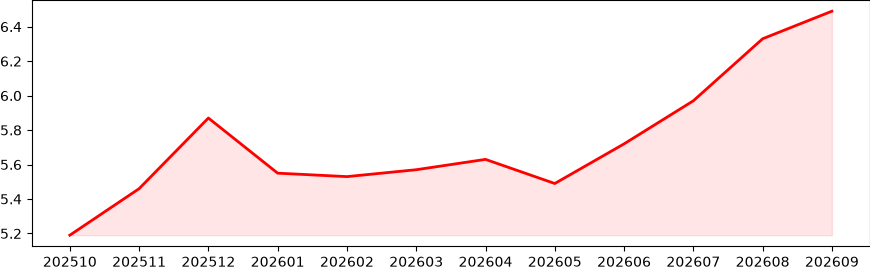
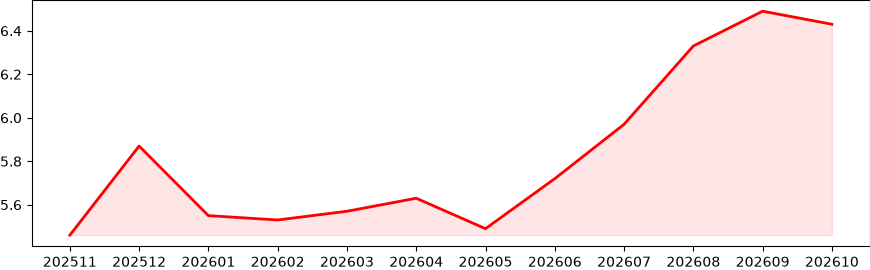
📈 README 및 금리 데이터 자동 업데이트 (2026-11-25)

diff --git a/README.md b/README.md
@@ -8,7 +8,6 @@
 
 |날짜|ITEM_NAME1|DATA_VALUE|
 |---|---|---|
-|202510|주택담보대출|3.98|
 |202511|주택담보대출|4.17|
 |202512|주택담보대출|4.23|
 |202601|주택담보대출|4.29|
@@ -20,6 +19,7 @@
 |202607|주택담보대출|4.48|
 |202608|주택담보대출|4.66|
 |202609|주택담보대출|4.88|
+|202610|주택담보대출|4.98|
 
 
 ## 💳 일반신용대출
@@ -30,7 +30,6 @@
 
 |날짜|ITEM_NAME1|DATA_VALUE|
 |---|---|---|
-|202510|일반신용대출 2)|5.19|
 |202511|일반신용대출 2)|5.46|
 |202512|일반신용대출 2)|5.87|
 |202601|일반신용대출 2)|5.55|
@@ -42,4 +41,5 @@
 |202607|일반신용대출 2)|5.97|
 |202608|일반신용대출 2)|6.33|
 |202609|일반신용대출 2)|6.49|
+|202610|일반신용대출 2)|6.43|
 
